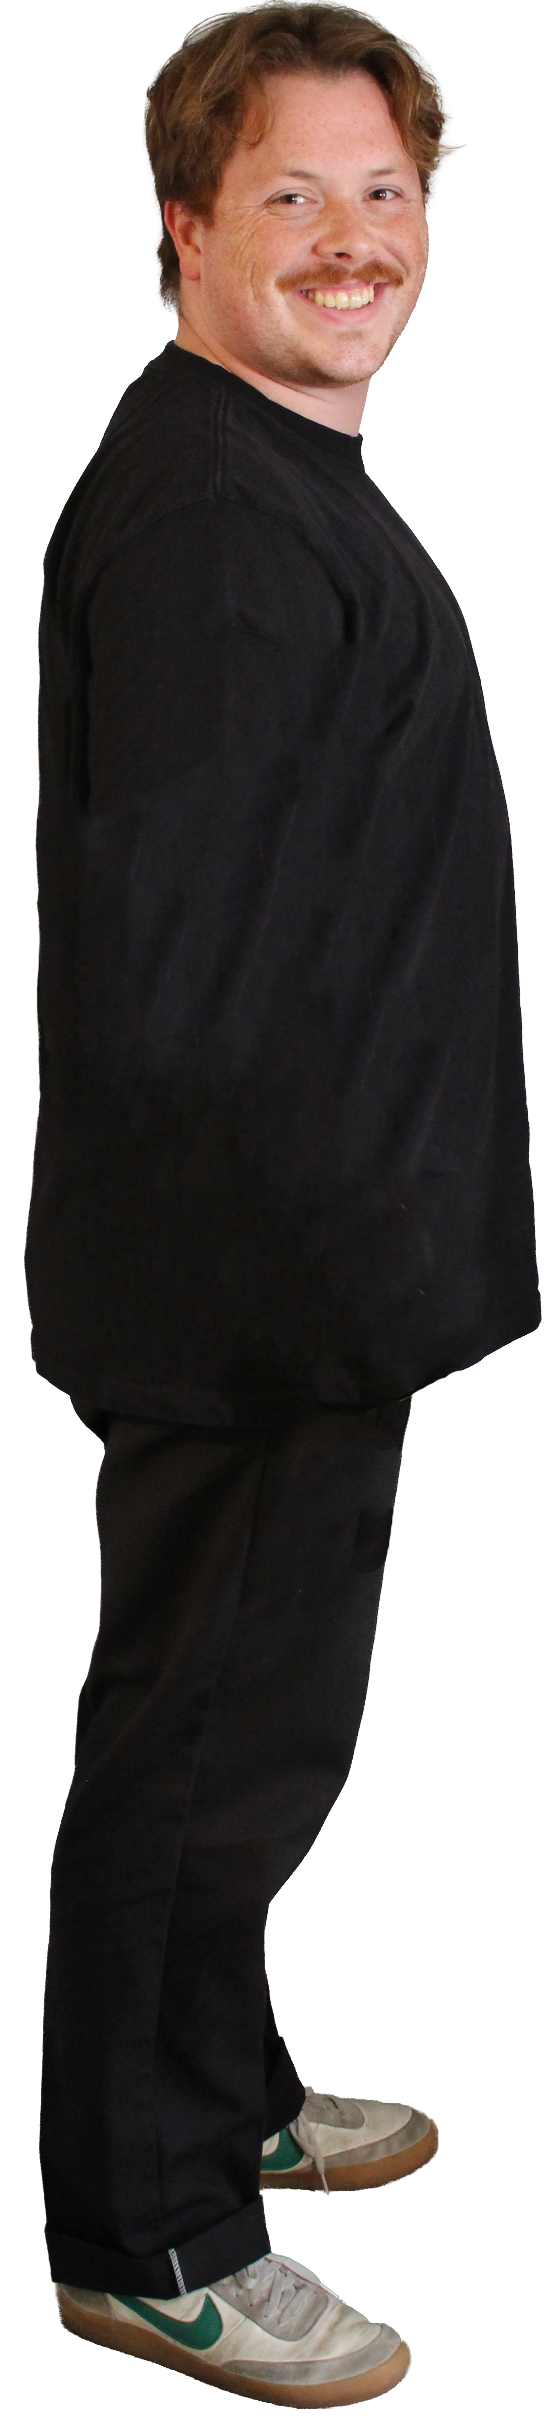
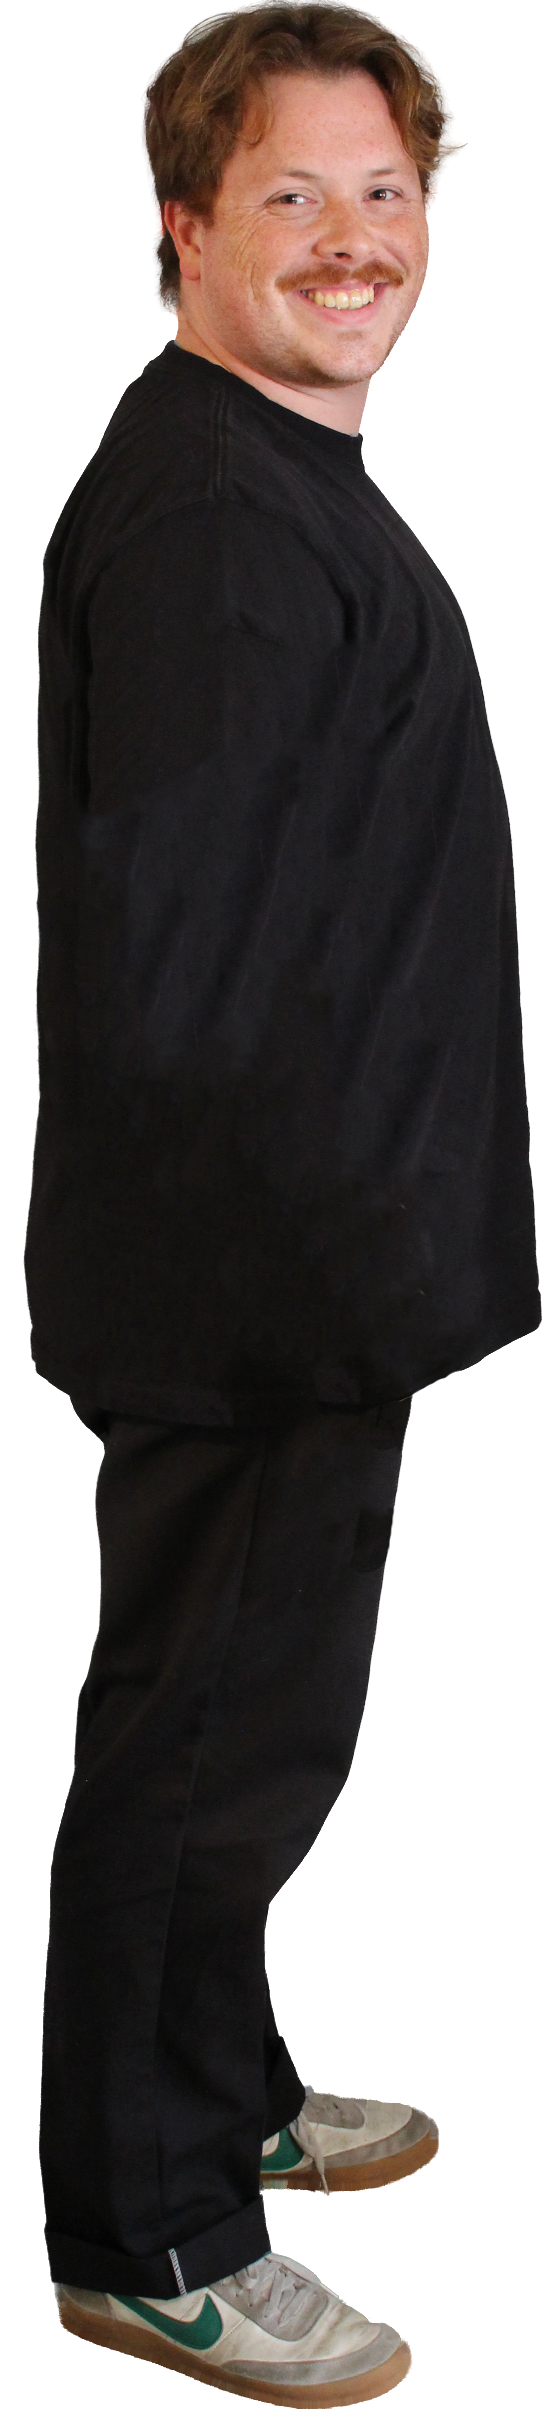
Take the white matte halo off the away-screen figure
Noah: "I noticed that we also have some hair fringe on the clock head."

It was the white studio backdrop kept by the cutout and then written at an
alpha far higher than the hair actually covering those pixels. Scanning
down through the crown: fully opaque light grey RGB(169,171,158) four
pixels off hair at RGB(80,61,46). Nothing on a head steps 2x in four
pixels. Across the whole silhouette the first shell in from the edge read
luminance 159 against 79 one pixel deeper — the entire outline, not just
the hair — and it showed because the away screen is black.

Fixed by solving the matting equation rather than darkening the rim: with
the backdrop known to be white and the true colour taken from past the
contaminated band, a = (B - C) / (B - F) gives the coverage that explains
each pixel. That keeps hair soft — thresholding it to "hair colour,
opaque" would trade a white halo for a hard cut-out.

Three things it took to get right, each caught by measuring rather than
looking: the distance transform read the crown as deep interior because
the figure is cropped to row 0 (padding fixes it); F was sampled at the
edge of the contaminated band and so was contaminated itself, replacing
light grey with light grey; and the correction ramped out too early,
leaving a bright line a few pixels inside the crown once the outer glow
was gone. The equation is also far more sensitive where the interior is
light, so skin is ramped out of it — a white halo against white-ish skin
[…]

diff --git a/tools/mickey-watch/remove_white_rim.py b/tools/mickey-watch/remove_white_rim.py
@@ -1,0 +1,195 @@
+"""Take the white matte halo off the figure in the away-screen clock.
+
+2026-08-23, Noah: "I noticed that we also have some hair fringe on the clock
+head. Please try to remove this as well."
+
+WHAT IT IS — measured on body.png, scanning down through the top of the head
+at x=300:
+
+    y0-y2   alpha  76-108   RGB(238,236,234)   near-white, semi-transparent
+    y3      alpha 218       RGB(193,191,184)
+    y4      alpha 249       RGB(177,174,166)
+    y5      alpha 255       RGB(169,171,158)   FULLY OPAQUE, still light grey
+    y9+     alpha 255       RGB( 80, 61, 46)   actual hair
+
+A light grey at full opacity sitting four pixels off hair half its luminance
+is not shading — nothing on a head steps 2x in four pixels. It is the white
+studio backdrop, kept by the cutout and then written at an alpha far higher
+than the amount of hair actually in those pixels. Two faults compounding: the
+colour is contaminated AND the alpha overstates the coverage. Averaged over
+the whole silhouette the first shell in from the edge reads luminance 159
+against 79 one pixel deeper, so this is the entire outline, not just the hair.
+
+It shows because the away screen is black. On black, "white that should have
+been transparent" is the most visible mistake an alpha channel can make.
+
+THE FIX IS THE MATTING EQUATION, not a threshold. A pixel photographed
+against a single known background holds C = aF + (1-a)B, with B white here
+and F the subject's true colour. F is recoverable: it is what this part of
+the figure looks like once past the contaminated band, which a distance
+transform gives directly (the nearest pixel at least RIM_PX deep). With F and
+B known, the coverage that explains the observed luminance is
+
+    a = (B - C) / (B - F)
+
+so each rim pixel is rewritten to colour F at that alpha. This is worth more
+than clamping or darkening the rim: it keeps the SOFTNESS. Hair edges are
+genuinely fractional, and thresholding them to "hair colour, opaque" trades a
+white halo for a hard cut-out silhouette. Solving for coverage turns a
+near-white opaque pixel into a mostly-transparent hair-coloured one, which is
+what it always should have been.
+
+Alpha is only ever REDUCED (np.minimum). The equation can also argue for more
+coverage than the file claims, and acting on that would grow the figure into
+its own background — the one direction where being wrong adds material that
+was never photographed.
+
+TWO GUARDS, both against the same instability. Where F is itself near white
+the denominator collapses and `a` is noise, so anything within WHITE_GUARD of
+the backdrop keeps its original alpha. And the correction is ramped out over
+the band by a smoothstep rather than switched off at RIM_PX, because a hard
+boundary between corrected and untouched pixels is its own visible seam —
+that is what made the first pass at the rotating head's rim read as "messy"
+(see tools/dark-head-pipeline/remove_dark_rim.py).
+"""
+import os
+import shutil
+
+import numpy as np
+from PIL import Image
+from scipy import ndimage as ndi
+
+SITE = os.path.dirname(os.path.dirname(os.path.dirname(os.path.abspath(__file__))))
+SRC = os.path.join(SITE, "public/images/mickey-watch/body.png")
+BACKUP = os.path.join(SITE, "public/images/mickey-watch/body-white-rim-backup.png")
+SHEET = "/private/tmp/claude-501/-Users-noahcousineau-Desktop-portfolio-noahcousineau-site/5a92aba5-9f87-47c5-91a0-843e0e91e314/scratchpad/clock-head-fix.png"
+
+BACKDROP = 255.0   # the studio white this was shot against
+# How far the bleed reaches, and how far in to look for a colour that is
+# clean. These are SEPARATE numbers, and conflating them was the first
+# version's mistake: sampling F at the edge of the contaminated band meant F
+# was itself contaminated, so the equation dutifully replaced light grey with
+# slightly different light grey. Re-reading the scan at the top of this file,
+# the colour does not settle to real hair — RGB(80,61,46) — until y9 or y10,
+# so the band is 10 deep and the sample has to come from past that.
+RIM_PX = 12
+SAMPLE_PX = 18
+# ...and the correction holds at FULL strength through this fraction of the
+# band before ramping out, rather than ramping from the very edge. The bleed
+# is roughly even across its depth and then stops; a ramp that starts falling
+# immediately leaves the inner half of it barely touched, which showed up as a
+# bright line sitting a few pixels inside the crown once the outer glow was
+# gone. Holding flat is safe because the equation is self-limiting — where the
+# pixel already matches its own interior colour it returns a ~ 1 and nothing
+# moves — so a wider window costs nothing on clean pixels.
+HOLD = 0.55
+# HOW FAR BELOW THE BACKDROP F HAS TO SIT before the equation is trusted,
+# ramped between these two rather than switched at one.
+#
+# The equation is far more sensitive on light subject matter than dark. On
+# hair at luminance 62 the denominator is 193 and a stray ten levels of
+# lightness barely moves the answer; on skin at 190 the denominator is 65, and
+# an edge pixel ten levels light enough reads as 15% less coverage. Running it
+# on the face at the same strength as the hair chewed visible bites out of the
+# jaw, the chin and the shoulder — the correction was eating the subject.
+#
+# Guarding light interiors out costs nothing that shows. A white halo against
+# white-ish skin is a few levels of contrast; against hair and a black shirt it
+# is the whole complaint. Skin (255-190 = 65) ramps to nothing, hair
+# (255-62 = 193) and the shirt are corrected in full.
+GUARD_LO, GUARD_HI = 70, 110
+ALPHA_MIN = 16
+
+
+def declutter(path):
+    a = np.array(Image.open(path).convert("RGBA")).astype(np.float32)
+    rgb, al = a[..., :3], a[..., 3]
+    op = al > ALPHA_MIN
+
+    # PAD BEFORE MEASURING DEPTH. The figure is cropped hard to the canvas —
+    # the crown of the head sits on row 0 — and distance_transform_edt treats
+    # the array border as more of the same, so those pixels came back "deep
+    # inside the silhouette" and the whole top of the hair, the worst of the
+    # halo, was skipped as interior. A one-pixel transparent frame makes the
+    # canvas edge count as the edge it visually is. Where the crop genuinely
+    # cuts through the body instead, this costs nothing: there F and C are the
+    # same dark shirt, so the equation returns a ~ 1 and nothing moves.
+    depth = ndi.distance_transform_edt(np.pad(op, 1))[1:-1, 1:-1]
+    # F for every pixel: the colour of the nearest one that is both opaque and
+    # past the contaminated band.
+    core = op & (depth >= SAMPLE_PX)
+    if not core.any():
+        raise SystemExit("nothing deep enough to sample a true colour from")
+    _, (iy, ix) = ndi.distance_transform_edt(~core, return_indices=True)
+    F = rgb[iy, ix]
+
+    C_lum = rgb.mean(2)
+    F_lum = F.mean(2)
+
+    # a = (B - C) / (B - F), only where the denominator is meaningful.
+    denom = BACKDROP - F_lum
+    solvable = denom > GUARD_LO
+    solved = np.zeros_like(C_lum)
+    solved[solvable] = ((BACKDROP - C_lum[solvable]) / denom[solvable]) * 255.0
+    solved = np.clip(solved, 0, 255)
+
+    # Ramp the correction out across the band: full at the edge, nothing at
+    # RIM_PX, smoothstepped so there is no line where treatment stops.
+    t = np.clip((depth / RIM_PX - HOLD) / (1 - HOLD), 0, 1)
+    w = 1.0 - (t * t * (3 - 2 * t))
+    g = np.clip((denom - GUARD_LO) / (GUARD_HI - GUARD_LO), 0, 1)
+    w *= g * g * (3 - 2 * g)
+    w[~op] = 0
+    w[~solvable] = 0
+
+    out = a.copy()
+    out[..., :3] = rgb * (1 - w[..., None]) + F * w[..., None]
+    # Only ever take coverage AWAY.
+    out[..., 3] = al * (1 - w) + np.minimum(al, solved) * w
+    return np.clip(out, 0, 255).astype(np.uint8)
+
+
+def strip(im, box, bg):
+    c = im.crop(box)
+    out = Image.new("RGB", c.size, bg)
+    out.paste(c, (0, 0), c)
+    return out
+
+
+def main():
+    if not os.path.exists(BACKUP):
+        shutil.copy2(SRC, BACKUP)
+        print(f"  kept the original at {os.path.basename(BACKUP)}")
+    before = Image.open(BACKUP).convert("RGBA")
+    after = Image.fromarray(declutter(BACKUP))
+
+    a = np.array(before).astype(int)
+    b = np.array(after).astype(int)
+    op = a[..., 3] > ALPHA_MIN
+    d = ndi.distance_transform_edt(op)
+    shell = op & (d < 2)
+    print(f"  outer shell: luminance {a[..., :3].mean(2)[shell].mean():.0f}"
+          f" -> {b[..., :3].mean(2)[shell].mean():.0f},"
+          f" alpha {a[..., 3][shell].mean():.0f} -> {b[..., 3][shell].mean():.0f}")
+    print(f"  silhouette area: {int(op.sum())} -> {int((b[..., 3] > ALPHA_MIN).sum())} px")
+
+    after.save(SRC)
+    print(f"  wrote {os.path.relpath(SRC, SITE)}")
+
+    # Before/after on black, which is the background it has to survive.
+    ys, xs = np.where(op)
+    y0, y1 = ys.min(), ys.min() + int((ys.max() - ys.min()) * 0.28)
+    box = (max(0, xs.min() - 20), max(0, y0 - 20), min(before.width, xs.max() + 20), y1)
+    tiles = [strip(before, box, (0, 0, 0)), strip(after, box, (0, 0, 0))]
+    sc = 1000 / (tiles[0].width * 2)
+    tiles = [t.resize((int(t.width * sc), int(t.height * sc)), Image.LANCZOS) for t in tiles]
+    sheet = Image.new("RGB", (tiles[0].width * 2 + 12, tiles[0].height), (60, 60, 60))
+    sheet.paste(tiles[0], (0, 0))
+    sheet.paste(tiles[1], (tiles[0].width + 12, 0))
+    os.makedirs(os.path.dirname(SHEET), exist_ok=True)
+    sheet.save(SHEET)
+    print(f"  before | after -> {SHEET}")
+
+
+if __name__ == "__main__":
+    main()
